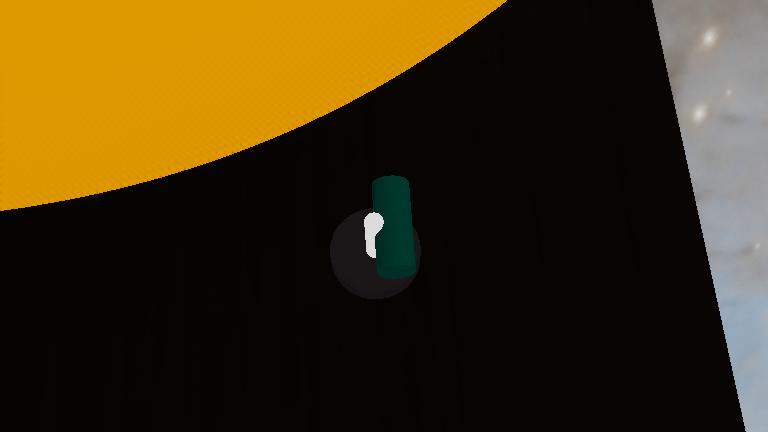
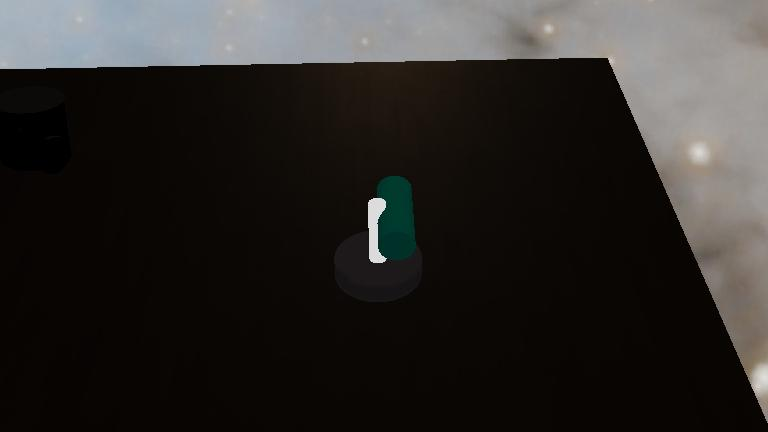
maj

diff --git a/controllers/stepper_motor/stepper_motor.py b/controllers/stepper_motor/stepper_motor.py
@@ -5,10 +5,17 @@ from numpy import sign
 robot = Robot()
 timestep = int(robot.getBasicTimeStep())
 
-motor = robot.getDevice("azimuth motor")
-sensor = robot.getDevice("azimuth sensor")
-if sensor:
-    sensor.enable(timestep)
+motor_az = robot.getDevice("azimuth motor")
+sensor_az = robot.getDevice("azimuth sensor")
+motor_alt = robot.getDevice("altitude motor")
+sensor_alt = robot.getDevice("altitude sensor")
+
+for m in [motor_az, motor_alt]:
+    m.setPosition(float('inf'))
+    m.setVelocity(0.0)
+
+for s in [sensor_az, sensor_alt]:
+    s.enable(timestep)
 
 # Petite fonction pour attendre proprement dans Webots
 def wait_webots(ms):
@@ -18,11 +25,13 @@ def wait_webots(ms):
             break
             
             
-DEG_PAR_PAS=1.8 #0.01
-current_ang=0
+DEG_PAR_PAS=0.9 #0.01
+current_ang_az=0
+current_ang_alt=0
 
-def Step(x, steps_per_rev=200):
-    global current_ang
+def Step(x,motor,steps_per_rev=200):
+    global current_ang_az
+    current_ang=current_ang_az
     current = current_ang # On met à jour la variable locale de l'angle actuel avec sa valeur globale
     nouvelle_cible = current + x * math.pi/180*DEG_PAR_PAS # Calcule le nouvel angle en fonction du degré par pas (résolution) du moteur pas à pas
     
@@ -32,21 +41,25 @@ def Step(x, steps_per_rev=200):
 
     #print(f"Nouvelle cible : {math.degrees(nouvelle_cible):.2f}°")
 
-def StepPosition(ang):
-    az_pos_re=math.degrees(sensor.getValue())
-    erreur=abs((az_pos_re-ang))
+def StepPosition(capteur,motor, ang):
+    pos_re=math.degrees(capteur.getValue())
+    pos_re=pos_re*sign(pos_re-ang)
+    erreur=abs((pos_re-ang))
     while (erreur>0.5):
-        az_pos_re=math.degrees(sensor.getValue())
-        print(f"erreur : {erreur} position réelle : {az_pos_re}")
-        Step(1*sign(az_pos_re-ang))
-        erreur=abs((az_pos_re-ang))
-        wait_webots(50) # Remplace time.sleep()
+        pos_re=math.degrees(capteur.getValue())
+        pos_re=pos_re*sign(pos_re-ang)
+        print(f"erreur : {abs((pos_re-ang))} position réelle : {pos_re}")
+        erreur=abs((pos_re-ang))
+        Step(1*sign(pos_re-ang), motor)
+        wait_webots(5) # Remplace time.sleep()
     
     
 # Initialisation
 robot.step(timestep)
-motor.setVelocity(0.5) # Vitesse du changement de pas
+motor_az.setVelocity(0.5) # Vitesse du changement de pas
 
-StepPosition(45)
-wait_webots(1000)
-StepPosition(271.63)
+while robot.step(timestep) != -1:
+    #StepPosition(sensor_az,motor_az,45)
+    Step(50,motor_az)
+    Step(50,motor_alt)
+    wait_webots(2500)